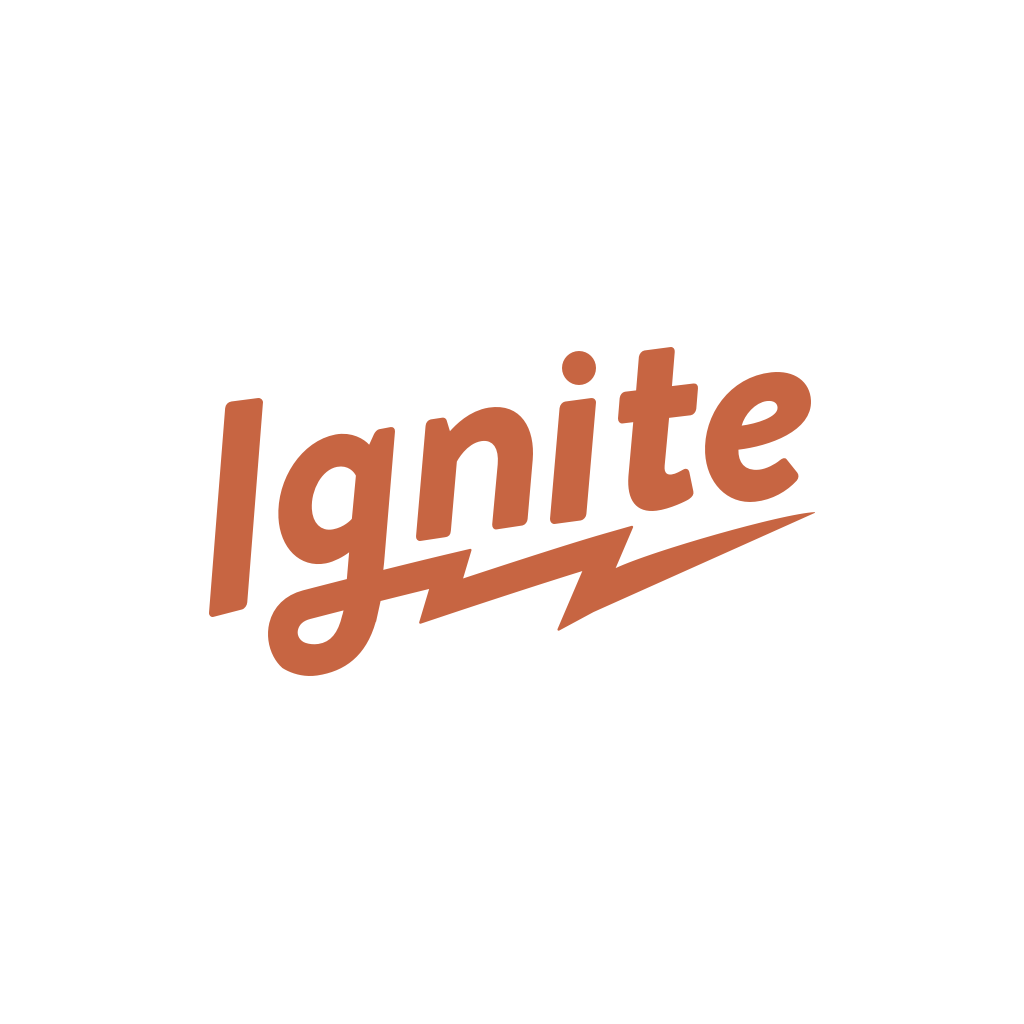
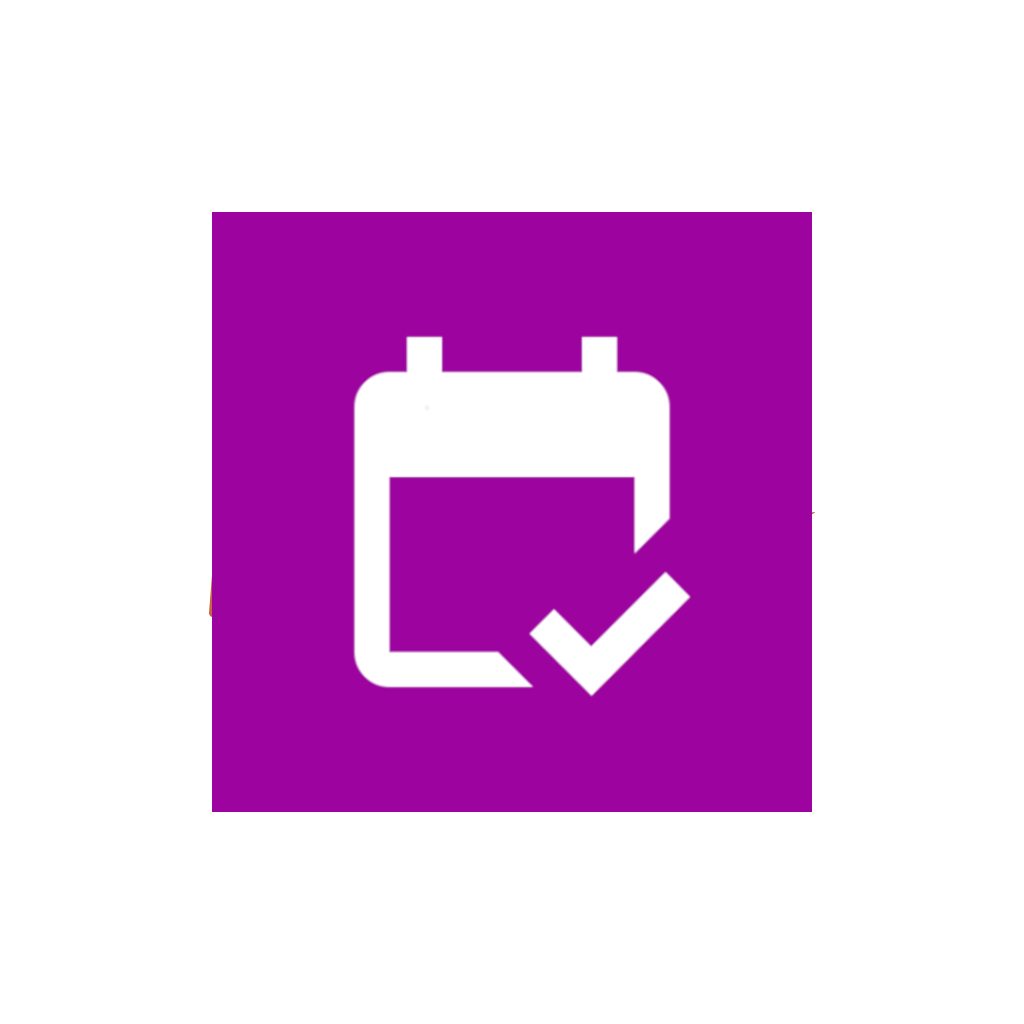
pakage fixes for expo 56

diff --git a/app/navigators/AppNavigator.tsx b/app/navigators/AppNavigator.tsx
@@ -18,7 +18,7 @@ import { NotesScreen } from "@/screens/NotesScreen"
 import { initDatabase } from "@/utils/database"
 import { useAppTheme } from "@/theme/context"
 import { Icon } from "@/components/Icon"
-import Ionicons from "@expo/vector-icons/Ionicons"
+import Ionicons from "@react-native-vector-icons/ionicons"
 
 import type { AppStackParamList, MainTabParamList, NavigationProps } from "./navigationTypes"
 import { navigationRef, useBackButtonHandler } from "./navigationUtilities"

diff --git a/app/screens/DayScreen.tsx b/app/screens/DayScreen.tsx
@@ -10,7 +10,7 @@ import { useNotesStore } from "@/stores/notesStore"
 import type { AppStackParamList } from "@/navigators/navigationTypes"
 import { MONTH_NAMES_FULL, DAY_NAMES_FULL } from "@/utils/constants"
 import { INote } from "types/types"
-import Feather from "@expo/vector-icons/Feather"
+import Feather from "@react-native-vector-icons/feather"
 import DraggableFlatList, { ScaleDecorator, RenderItemParams } from "react-native-draggable-flatlist"
 
 type DayScreenProps = NativeStackScreenProps<AppStackParamList, "Day">